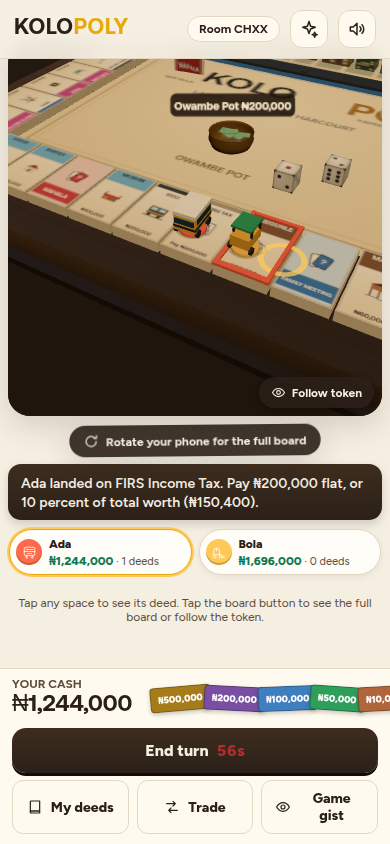
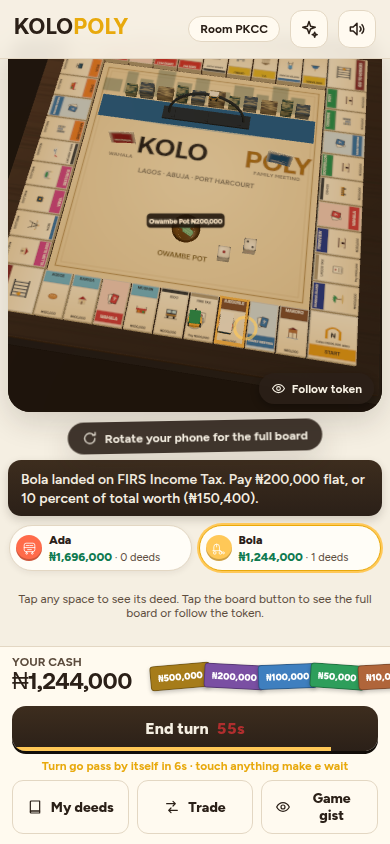
Fix board framing and add smart auto-end: full-board camera refit to 72 degrees so all 40 tiles sit in frame with even margins, centre diorama confined to the island (shorter towers, smaller bridge arc, wordmark clear), and a 6s client auto-end countdown that arms only when the turn player has no pe

diff --git a/public/app.js b/public/app.js
@@ -652,6 +652,105 @@ function renderActionBar(room) {
   wire('sbContracts', () => openContracts());
   wire('sbGist', () => openGist());
 }
+// ---------------------------------------------------------------------------
+// Smart auto-end: when the turn player has nothing left to decide, the turn
+// passes by itself after a short visible countdown on the End turn button.
+// Any touch from that player holds the turn (the management window stays:
+// building, trades, contracts and mortgage decisions all block or cancel
+// it). This is only the client's own end_turn intent on a timer; the server
+// rules and the 60s turn timer backstop are untouched.
+// ---------------------------------------------------------------------------
+const AUTO_END_MS = 6000;
+let autoEnd = null; // { key, deadline }
+
+function autoEndSheetOpen() {
+  return !!document.querySelector('.scrim.show, .overlay.show');
+}
+function autoEndBuildAvailable(room, actor) {
+  // A build counts as available when the placement is legal (full set, even
+  // build, nothing mortgaged or pledged), the bank still has the building,
+  // and the player can pay the printed cost. Printed cost is the floor in
+  // every mode: Inflation multiplies it by a die of 1 or more, so a player
+  // who cannot pay printed cannot build at all, and one who can might.
+  const D = window.KP_DATA;
+  for (let i = 0; i < D.SPACES.length; i++) {
+    const sp = D.SPACES[i];
+    if (!sp || sp.type !== 'street') continue;
+    if (actor.cash < (sp.duplex || 0)) continue;
+    if (room.duplexSupply > 0 && window.KPBoard.canBuildHere(room, actor.id, i, 'duplex')) return true;
+    if (room.mansionSupply > 0 && window.KPBoard.canBuildHere(room, actor.id, i, 'mansion')) return true;
+  }
+  return false;
+}
+function autoEndBlocked(room) {
+  if (!room || room.status !== 'playing' || room.paused || spectator) return true;
+  const actor = byId(room.turnPlayerId);
+  if (!actor || actor.bankrupt) return true;
+  if (actingId() !== room.turnPlayerId) return true; // only the turn player's own client arms it
+  if (room.phase !== 'end') return true; // doubles and roll-again live in the roll phase
+  if (room.auction || room.debt || room.buildPlace || room.trade) return true;
+  if (actor.pendingChoice != null) return true;
+  if (room.inf && (room.inf.proposal || room.inf.loanDecision || room.inf.dealBreakEndsAt)) return true;
+  if (autoEndSheetOpen()) return true;
+  if (autoEndBuildAvailable(room, actor)) return true;
+  if (room.turnDeadline && room.turnDeadline - Date.now() < AUTO_END_MS + 1500) return true;
+  if (!$('abEnd')) return true;
+  return false;
+}
+function autoEndStrip() {
+  const btn = $('abEnd');
+  if (btn) { const f = btn.querySelector('.autoend-fill'); if (f) f.remove(); }
+  const lbl = $('autoEndLabel');
+  if (lbl) lbl.remove();
+}
+function autoEndCancel() {
+  if (!autoEnd) return;
+  autoEnd = null;
+  autoEndStrip();
+}
+function autoEndPaint() {
+  const btn = $('abEnd');
+  if (!btn || !autoEnd) return;
+  const left = Math.max(0, autoEnd.deadline - Date.now());
+  if (!btn.querySelector('.autoend-fill')) {
+    const f = document.createElement('span');
+    f.className = 'autoend-fill';
+    btn.appendChild(f);
+  }
+  btn.querySelector('.autoend-fill').style.width = (left / AUTO_END_MS * 100) + '%';
+  let lbl = $('autoEndLabel');
+  if (!lbl) {
+    lbl = document.createElement('span');
+    lbl.className = 'autoend-label';
+    lbl.id = 'autoEndLabel';
+    $('actionBar').appendChild(lbl);
+  }
+  lbl.textContent = 'Turn go pass by itself in ' + Math.ceil(left / 1000) + 's · touch anything make e wait';
+}
+function autoEndEvaluate() {
+  const room = state;
+  if (!room || autoEndBlocked(room)) { autoEndCancel(); return; }
+  const key = room.turnPlayerId + '|' + (room.turnDeadline || 'x');
+  if (autoEnd && autoEnd.key === key) {
+    if (Date.now() >= autoEnd.deadline) {
+      autoEndCancel();
+      bankruptArmed = false;
+      sendAs('end_turn', {});
+      return;
+    }
+    autoEndPaint();
+    return;
+  }
+  autoEnd = { key, deadline: Date.now() + AUTO_END_MS };
+  autoEndPaint();
+}
+setInterval(autoEndEvaluate, 100);
+// Any real touch or key press by the player holds the turn: cancel at once.
+// State pushes do not fire these, so the countdown survives re-renders; a
+// touch that opens a sheet also keeps it blocked while the sheet is up.
+document.addEventListener('pointerdown', () => autoEndCancel(), true);
+document.addEventListener('keydown', () => autoEndCancel(), true);
+
 function roomAmount(i) { return window.KP_DATA.SPACES[i].price || 0; }
 
 function renderAuction(room) {

diff --git a/public/board3d.js b/public/board3d.js
@@ -728,9 +728,9 @@ class GameScene {
     s.background = new THREE.Color(0x2a1a0e);
     s.fog = new THREE.Fog(0x2a1a0e, 30, 52);
     this.camera = new THREE.PerspectiveCamera(40, 1, 0.1, 120);
-    this.camera.position.set(0, 19, 17);
-    this.camPos = new THREE.Vector3(0, 19, 17);
-    this.camTgt = new THREE.Vector3(0, 0, 0);
+    this.camera.position.set(0, 22.1, 7.7);
+    this.camPos = new THREE.Vector3(0, 22.1, 7.7);
+    this.camTgt = new THREE.Vector3(0, 0, 0.5);
     this.hemi = new THREE.HemisphereLight(0xfff2d8, 0x5a4028, 0.8); s.add(this.hemi);
     this.key = new THREE.DirectionalLight(0xffd9a0, 1.55);
     this.key.position.set(7, 13, 8);
@@ -817,21 +817,26 @@ class GameScene {
     floor.rotation.x = -Math.PI / 2; floor.position.y = 0.02; floor.receiveShadow = true; s.add(floor);
     // skyline row
     const winMats = [0x39594a, 0x51606e, 0x6e5a41].map((col, k) => new THREE.MeshStandardMaterial({ map: windowTexture('#' + col.toString(16).padStart(6, '0'), 0.4), roughness: 0.85 }));
-    const hs = [0.45, 0.78, 0.58, 0.95, 0.64, 0.85, 0.5, 0.72, 0.55, 0.88, 0.6];
-    let sx = -4.05;
+    // Skyline kept low (tallest 0.52) and pulled inward (z -3.22, span inside
+    // x +-3.95) so it stays strictly inside the centre island and never
+    // crowds the top track from the full-board camera.
+    const hs = [0.25, 0.43, 0.32, 0.52, 0.35, 0.47, 0.28, 0.4, 0.3, 0.48, 0.33];
+    let sx = -3.3;
     hs.forEach((h, k) => {
-      const w = 0.55 + (k % 3) * 0.14;
-      const b = bx(w, h, 0.5, winMats[k % 3], sx + w / 2, h / 2 + 0.02, -3.78);
-      sx += w + 0.17; s.add(b);
+      const w = 0.42 + (k % 3) * 0.1;
+      const b = bx(w, h, 0.44, winMats[k % 3], sx + w / 2, h / 2 + 0.02, -3.22);
+      sx += w + 0.16; s.add(b);
     });
     // water and bridge
     const water = new THREE.Mesh(new THREE.PlaneGeometry(8.4, 1.0), new THREE.MeshStandardMaterial({ color: 0x3f7fbf, roughness: 0.15, metalness: 0.3 }));
     water.rotation.x = -Math.PI / 2; water.position.set(0, 0.035, -2.45); water.receiveShadow = true; s.add(water);
     const bridgeMat = std(0x333a40, 0.6, 0.3);
-    const arc = new THREE.Mesh(new THREE.TorusGeometry(2.25, 0.06, 8, 40, Math.PI), bridgeMat);
+    // Bridge arc scaled to live inside the island: radius 1.45 (peak 1.55),
+    // deck 3.4 long, piers to match. Nothing reaches the track or wordmark.
+    const arc = new THREE.Mesh(new THREE.TorusGeometry(1.45, 0.05, 8, 36, Math.PI), bridgeMat);
     arc.position.set(0, 0.10, -2.45); arc.castShadow = true; s.add(arc);
-    s.add(bx(5.2, 0.07, 0.55, bridgeMat, 0, 0.09, -2.45));
-    for (const px2 of [-2.2, 0, 2.2]) s.add(bx(0.16, 0.5, 0.4, bridgeMat, px2, -0.1, -2.45));
+    s.add(bx(3.4, 0.07, 0.55, bridgeMat, 0, 0.09, -2.45));
+    for (const px2 of [-1.3, 0, 1.3]) s.add(bx(0.16, 0.5, 0.4, bridgeMat, px2, -0.1, -2.45));
     this.bridgeDanfo = buildDanfo(0.52); s.add(this.bridgeDanfo);
     // Owambe pot
     const potPts = [];
@@ -1125,8 +1130,8 @@ class GameScene {
     const s = this.scene;
     // bridge danfo shuttle
     const bu = (Math.sin(tNow * 0.13) + 1) / 2;
-    const bx2 = -2.0 + bu * 4.0;
-    this.bridgeDanfo.position.set(bx2, 0.16 + Math.sin(bu * Math.PI) * 2.05, -2.45);
+    const bx2 = -1.22 + bu * 2.44;
+    this.bridgeDanfo.position.set(bx2, 0.16 + Math.sin(bu * Math.PI) * 1.25, -2.45);
     this.bridgeDanfo.rotation.z = Math.cos(bu * Math.PI) * 0.42 * (Math.cos(tNow * 0.13) > 0 ? 1 : -1);
     this.bridgeDanfo.rotation.y = Math.cos(tNow * 0.13) > 0 ? Math.PI / 2 : -Math.PI / 2;
     // pot notes gentle shimmer
@@ -1265,7 +1270,12 @@ class GameScene {
       this.countdownZoom -= dt;
       wantPos = new THREE.Vector3(0, 12.6, 11.4); wantTgt = new THREE.Vector3(0, 0, -0.4); damp = 1.1;
     } else if (B.effectiveFull()) {
-      wantPos = new THREE.Vector3(0, 12.6, 11.4); wantTgt = new THREE.Vector3(0, 0, -0.4);
+      // Full board: steep (72 degrees) and centred on the island, fitted
+      // with the real projection against the square stage (the wrap is
+      // aspect 1/1 at every size): the rim silhouette fills 93% of the
+      // width and 81% of the height, dead centre, so no tile is cropped,
+      // no dead band opens up, and the far row barely foreshortens.
+      wantPos = new THREE.Vector3(0, 22.1, 7.7); wantTgt = new THREE.Vector3(0, 0, 0.5);
     } else {
       let f = null;
       if (this.focusOverride != null && performance.now() < this.focusUntil) {

diff --git a/public/style.css b/public/style.css
@@ -413,6 +413,12 @@ input, select { font-family: inherit; font-size: var(--fs-lead); color: var(--in
 .actionbar .btn.fixed { flex: none; }
 .turn-timer { font-variant-numeric: tabular-nums; font-weight: 800; color: var(--red-deep); }
 
+/* Smart auto-end countdown on the End turn button */
+#actionBar { flex-wrap: wrap; }
+#abEnd { position: relative; overflow: hidden; }
+#abEnd .autoend-fill { position: absolute; left: 0; bottom: 0; height: 4px; background: var(--gold); pointer-events: none; }
+.autoend-label { flex: 0 0 100%; text-align: center; font-size: var(--fs-caption); font-weight: 700; color: var(--gold-deep); }
+
 /* Alerts: bank app style money cards */
 .alerts {
   position: fixed; top: calc(var(--topbar-h) + 6px); left: 50%; transform: translateX(-50%);
